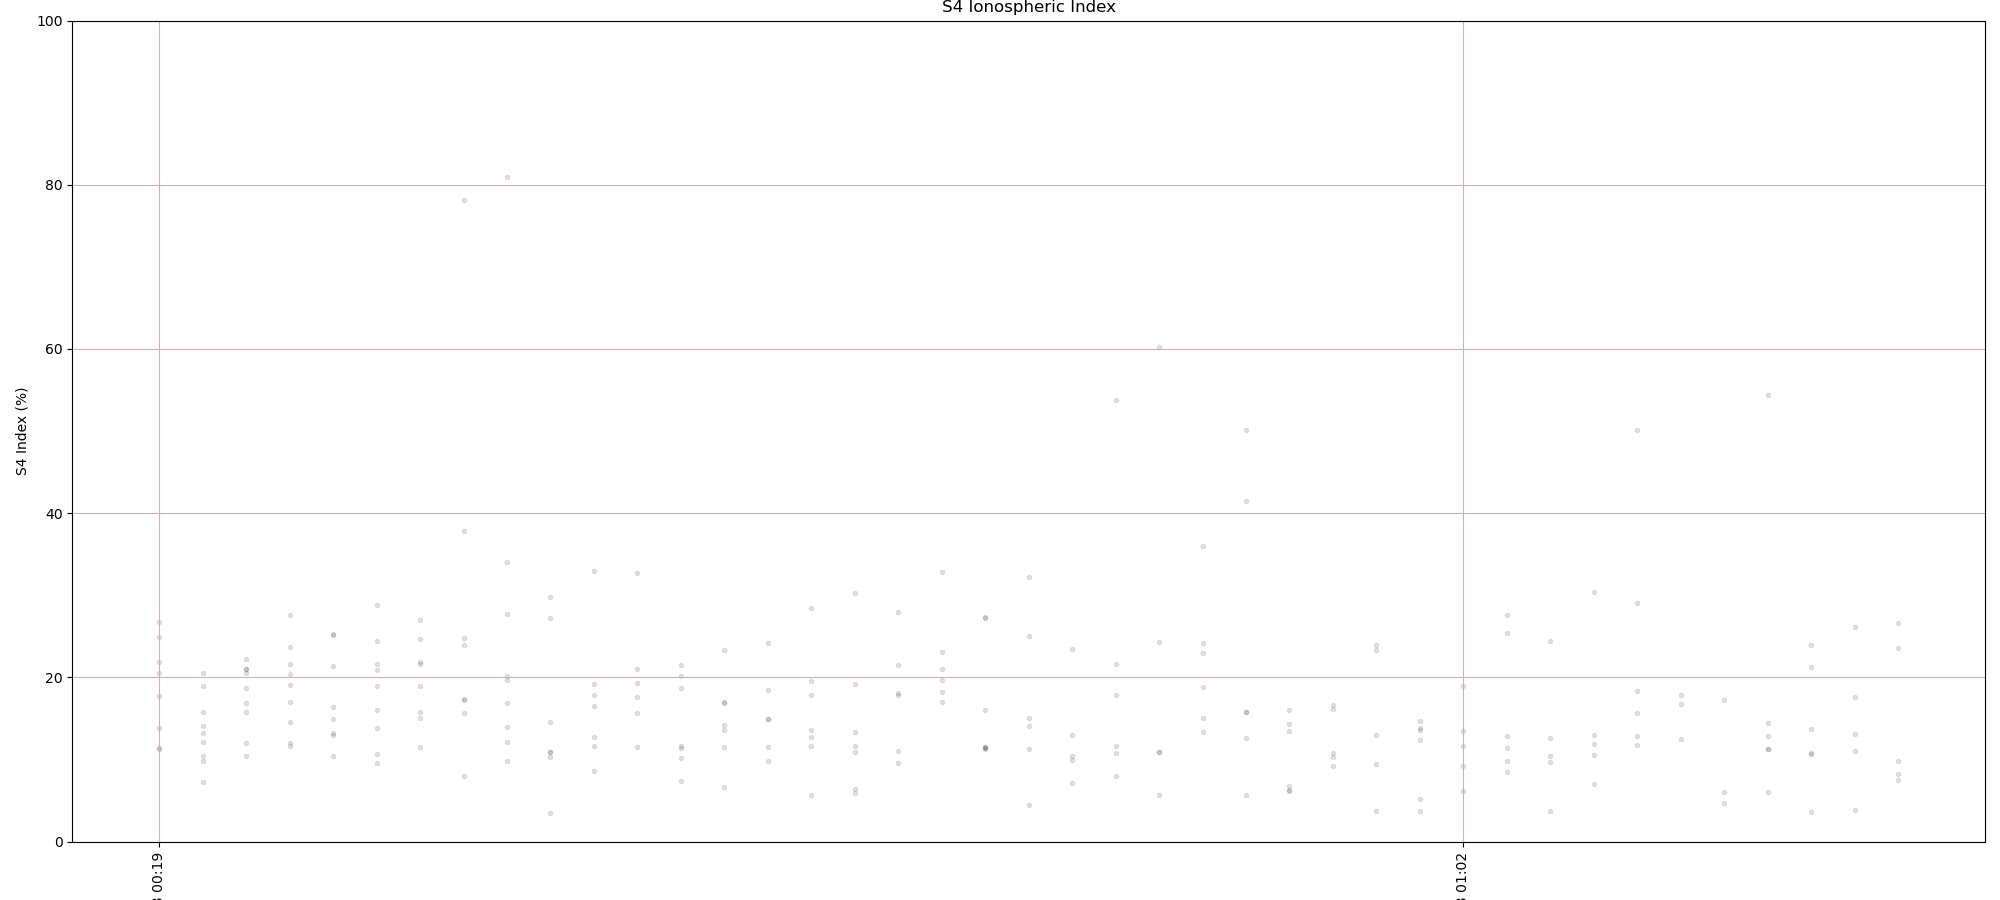
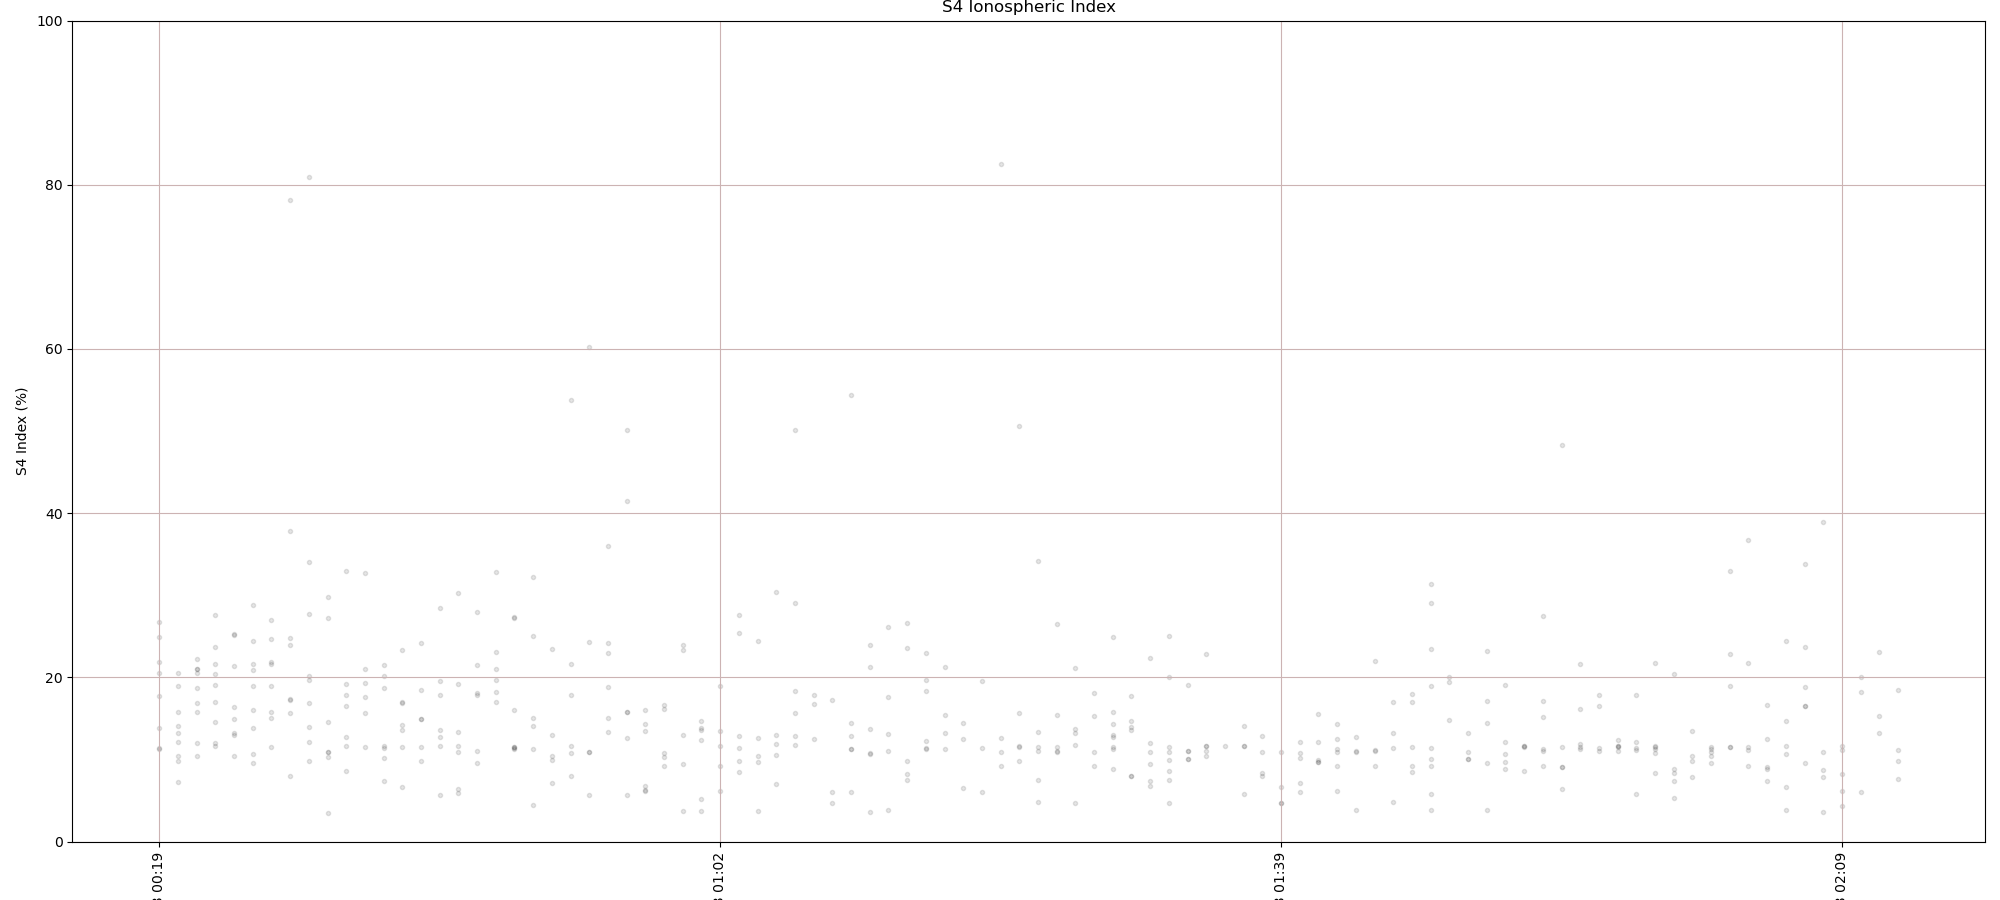
qwe

diff --git a/ionospheric scintillation/mgr_satellite_plotter.py b/ionospheric scintillation/mgr_satellite_plotter.py
@@ -22,14 +22,14 @@ class GPSSatellite:
     def init_satdata(self):
         returnarray = []
         dt = epoch_start
-        for i in range(0, 1442):
+        for i in range(0, 1445):
             # array is date, alt, snr, s4
             returnarray.append([posix2utc(dt), nan, nan, nan])
             # returnarray.append([posix2utc(dt), "", "", ""])
             dt = dt + binsize
         # We need this to trick matplot into displaying the full 24 hour span
         returnarray[0][1] = 0
-        returnarray[1441][1] = 0
+        returnarray[1444][1] = 0
         return returnarray
 
 
@@ -55,7 +55,7 @@ def create_chart(sat):
             y2.append(data[2])
             y3.append(data[3])
 
-        s4, ax = plt.subplots(figsize=[6,3], dpi=100)
+        s4, ax = plt.subplots(figsize=[8,4], dpi=100)
         tic_space = 30
         ax.xaxis.set_major_locator(ticker.MultipleLocator(tic_space))
         ax.tick_params(axis='x', labelrotation=45)
